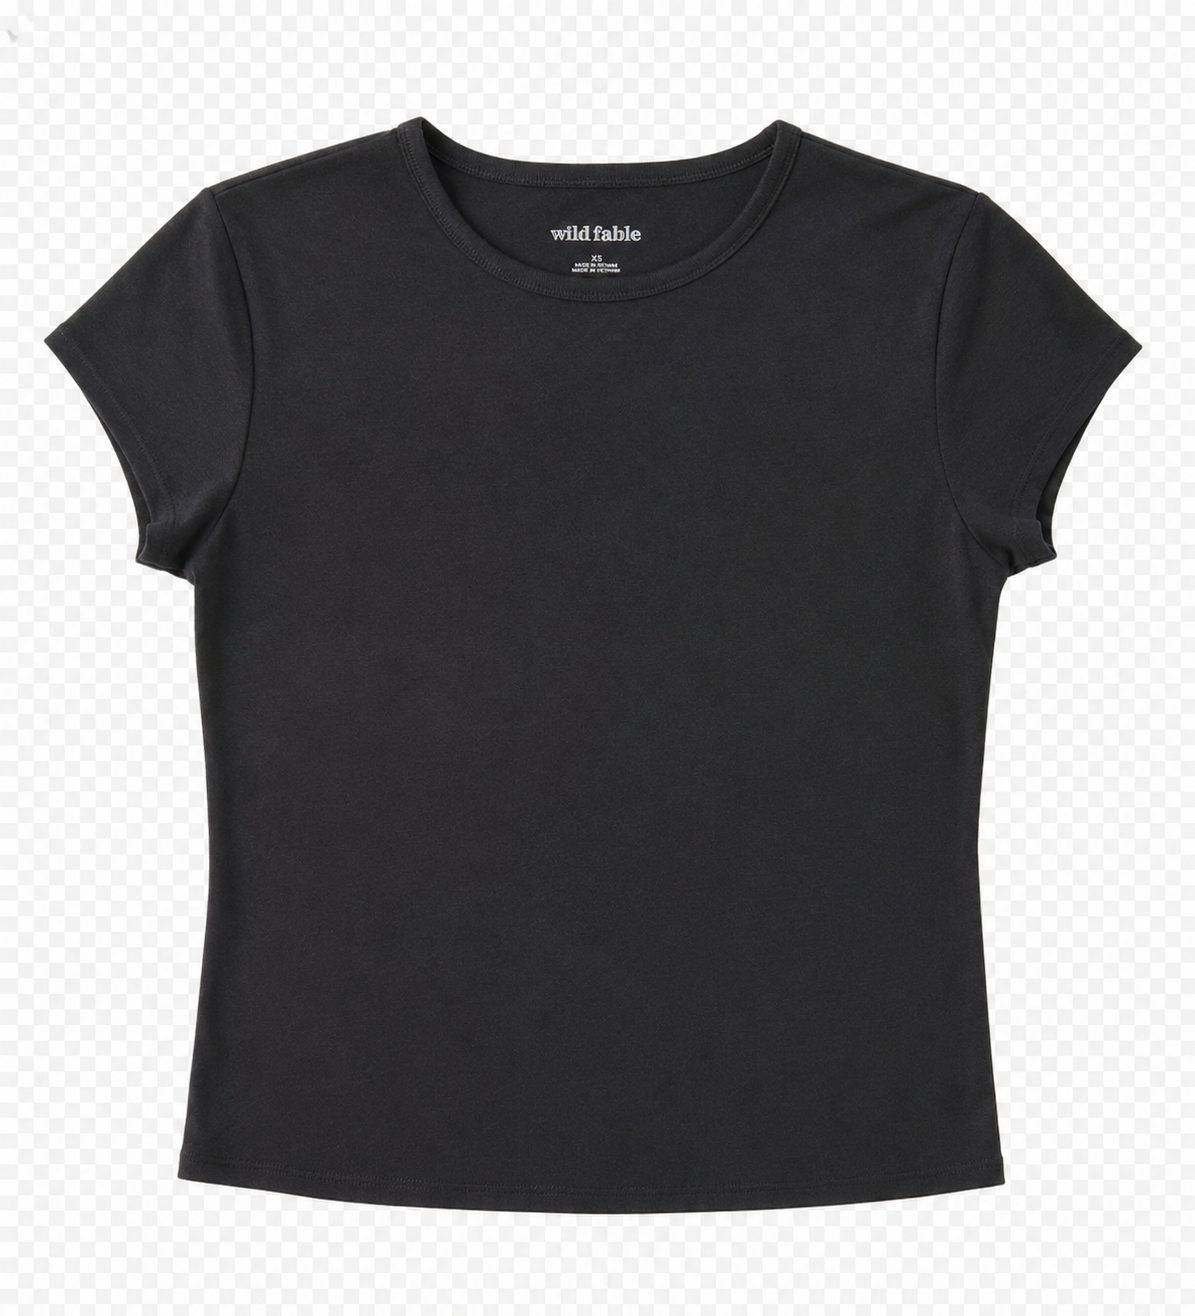
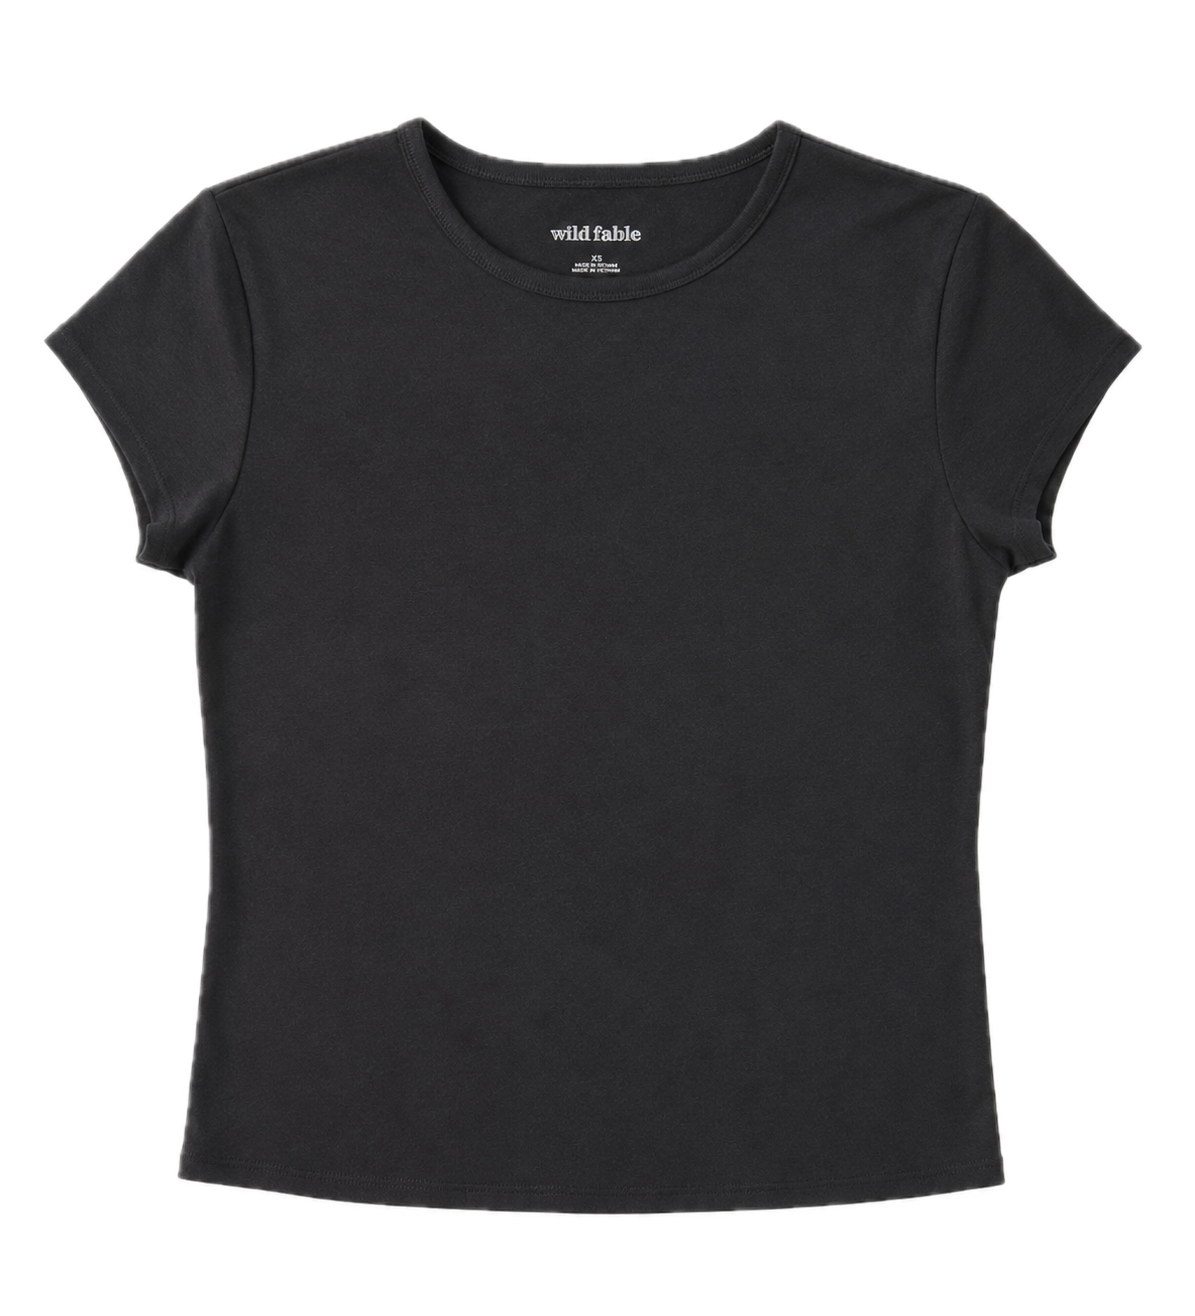
Update navigation and default view to Style Me; increment version for CSS and JS

diff --git a/script.js b/script.js
@@ -164,7 +164,6 @@ const starterWardrobeItems = [
   createStarterItem("starter-leopard-camp-shirt", "Leopard camp shirt", "Short Sleeve Tops", "images/closet/leopard-camp-shirt.png", ["brown", "tan", "black"], ["leopard", "camp collar", "casual", "print"]),
   createStarterItem("starter-sage-cargo-skirt", "Sage cargo mini skirt", "Bottoms", "images/closet/sage-cargo-skirt.png", ["sage", "green"], ["skirt", "mini", "cargo", "casual"]),
   createStarterItem("starter-pink-athletic-shorts", "Pink athletic shorts", "Bottoms", "images/closet/pink-athletic-shorts.png", ["pink", "blush"], ["shorts", "athletic", "activewear"]),
-  createStarterItem("starter-black-tropical-shorts", "Black tropical print shorts", "Bottoms", "images/closet/black-tropical-shorts.png", ["black", "tan"], ["shorts", "tropical", "casual", "summer"]),
   createStarterItem("starter-orange-nike-shorts", "Orange Nike athletic shorts", "Bottoms", "images/closet/orange-nike-shorts.png", ["orange"], ["shorts", "athletic", "activewear", "nike"]),
   createStarterItem("starter-gray-denim-cargo-shorts", "Gray denim cargo shorts", "Bottoms", "images/closet/gray-denim-cargo-shorts.png", ["gray", "charcoal"], ["shorts", "denim", "cargo", "casual"]),
   createStarterItem("starter-navy-polka-dot-shorts", "Navy polka dot lounge shorts", "Bottoms", "images/closet/navy-polka-dot-shorts.png", ["navy", "multicolor"], ["shorts", "lounge", "casual"]),
@@ -179,7 +178,6 @@ const starterWardrobeItems = [
   createStarterItem("starter-navy-pinstripe-flare-jeans", "Navy pinstripe flare jeans", "Bottoms", "images/closet/navy-pinstripe-flare-jeans.png", ["navy", "white"], ["jeans", "flare", "pinstripe", "denim", "casual"]),
   createStarterItem("starter-leopard-print-shorts", "Leopard print shorts", "Bottoms", "images/closet/leopard-print-shorts.png", ["brown", "tan", "black"], ["leopard", "shorts", "casual", "print"]),
   createStarterItem("starter-snakeskin-heeled-sandals", "Snakeskin heeled sandals", "Shoes", "images/closet/snakeskin-heeled-sandals.png", ["tan", "brown", "cream"], ["heels", "sandals", "snakeskin", "dressy"]),
-  createStarterItem("starter-knowt-graphic-tee", "Knowt graphic tee", "Short Sleeve Tops", "images/closet/knowt-graphic-tee.png", ["black", "white"], ["graphic tee", "casual", "streetwear"]),
   createStarterItem("starter-umd-block-graphic-tee", "UMD Block graphic tee", "Short Sleeve Tops", "images/closet/umd-block-graphic-tee.png", ["navy", "multicolor"], ["graphic tee", "casual", "college"]),
   createStarterItem("starter-sage-open-knit-sweater", "Sage open-knit sweater", "Long Sleeve Tops", "images/closet/sage-open-knit-sweater.png", ["sage", "green"], ["sweater", "knit", "crochet", "casual", "layering"]),
   createStarterItem("starter-lime-ruffle-crop-top", "Lime ruffle crop top", "Long Sleeve Tops", "images/closet/lime-ruffle-crop-top.png", ["lime", "neon green", "yellow-green"], ["crop top", "ruffle", "tie-front", "summer", "casual"]),
@@ -187,23 +185,53 @@ const starterWardrobeItems = [
   createStarterItem("starter-retro-print-mini-skirt", "Retro print mini skirt", "Bottoms", "images/closet/retro-print-mini-skirt.png", ["orange", "green", "red", "yellow"], ["skirt", "mini", "retro", "print", "summer"]),
   createStarterItem("starter-fish-print-pants", "Fish print pants", "Bottoms", "images/closet/fish-print-pants.png", ["black", "tan"], ["pants", "print", "casual", "streetwear"]),
   createStarterItem("starter-gray-crop-sweater", "Gray crop sweater", "Long Sleeve Tops", "images/closet/gray-crop-sweater.png", ["gray"], ["sweater", "crop", "cozy", "casual"]),
-  createStarterItem("starter-navy-quarter-zip", "Navy quarter-zip", "Long Sleeve Tops", "images/closet/navy-quarter-zip.png", ["navy", "dark blue"], ["quarter zip", "athletic", "layering"]),
   createStarterItem("starter-mauve-mesh-off-shoulder-top", "Mauve mesh off-shoulder top", "Short Sleeve Tops", "images/closet/mauve-mesh-off-shoulder-top.png", ["mauve", "dusty rose", "pink"], ["off shoulder", "mesh", "ruched", "casual", "summer"]),
   createStarterItem("starter-true-crime-graphic-tee", "True Crime Social Club tee", "Short Sleeve Tops", "images/closet/true-crime-graphic-tee.png", ["black", "red"], ["graphic tee", "casual"]),
   createStarterItem("starter-gray-tailored-trousers", "Gray tailored trousers", "Bottoms", "images/closet/gray-tailored-trousers.png", ["gray", "charcoal"], ["trousers", "wide leg", "tailored", "work", "dressy"]),
   createStarterItem("starter-light-wash-flare-jeans", "Light wash flare jeans", "Bottoms", "images/closet/light-wash-flare-jeans.png", ["light blue", "denim"], ["jeans", "flare", "denim", "casual"]),
-  createStarterItem("starter-navy-lounge-pants", "Navy lounge pants", "PJs", "images/closet/navy-lounge-pants.png", ["navy"], ["pjs", "lounge", "cozy", "casual"]),
-  createStarterItem("starter-gray-athletic-jacket", "Gray athletic jacket", "Long Sleeve Tops", "images/closet/gray-athletic-jacket.png", ["gray"], ["jacket", "zip up", "athletic", "activewear"]),
   createStarterItem("starter-mojave-crop-tee", "Mojave crop tee", "Short Sleeve Tops", "images/closet/mojave-crop-tee.png", ["black", "charcoal"], ["graphic tee", "crop", "casual", "streetwear"]),
   createStarterItem("starter-tiger-print-button-up", "Tiger print button-up", "Long Sleeve Tops", "images/closet/tiger-print-button-up.png", ["black", "cream", "white"], ["tiger print", "button up", "animal print", "casual"]),
   createStarterItem("starter-navy-strapless-mini-dress", "Navy strapless mini dress", "Dresses", "images/closet/navy-strapless-mini-dress.png", ["navy", "dark blue"], ["dress", "mini", "strapless", "bodycon", "date night"]),
-  createStarterItem("starter-brown-stripe-crop-jacket", "Brown stripe crop jacket", "Long Sleeve Tops", "images/closet/brown-stripe-crop-jacket.png", ["brown", "mauve", "burgundy"], ["striped", "crop", "jacket", "casual"]),
   createStarterItem("starter-gray-adidas-track-pants", "Gray Adidas track pants", "Bottoms", "images/closet/gray-adidas-track-pants.png", ["light gray", "white"], ["track pants", "athletic", "adidas", "activewear"]),
   createStarterItem("starter-tan-batwing-sweater", "Tan batwing sweater", "Long Sleeve Tops", "images/closet/tan-batwing-sweater.png", ["tan", "oatmeal", "cream"], ["sweater", "batwing", "oversized", "cozy", "casual"]),
   createStarterItem("starter-black-running-shorts", "Black running shorts", "Bottoms", "images/closet/black-running-shorts.png", ["black"], ["shorts", "athletic", "running", "activewear"]),
-  createStarterItem("starter-taupe-bodysuit", "Taupe bodysuit", "Short Sleeve Tops", "images/closet/taupe-bodysuit.png", ["taupe", "mocha", "brown"], ["bodysuit", "casual", "basics"]),
   createStarterItem("starter-burgundy-babydoll-dress", "Burgundy babydoll dress", "Dresses", "images/closet/burgundy-babydoll-dress.png", ["burgundy", "wine", "red"], ["dress", "babydoll", "slip dress", "summer", "casual"]),
   createStarterItem("starter-denim-utility-shorts", "Denim utility shorts", "Bottoms", "images/closet/denim-utility-shorts.png", ["light blue", "denim"], ["shorts", "denim", "cargo", "utility", "casual"]),
+  createStarterItem("starter-black-satin-pj-shirt", "Black satin PJ shirt", "PJs", "images/closet/black-satin-pj-shirt.png", ["black", "cream"], ["pjs", "satin", "lounge", "cozy"]),
+  createStarterItem("starter-black-satin-pj-shorts", "Black satin PJ shorts", "PJs", "images/closet/black-satin-pj-shorts.png", ["black", "cream"], ["pjs", "satin", "lounge", "cozy"]),
+  createStarterItem("starter-blue-stripe-button-up", "Blue stripe button-up shirt", "Long Sleeve Tops", "images/closet/blue-stripe-button-up.png", ["blue", "white"], ["button up", "striped", "long sleeve", "casual"]),
+  createStarterItem("starter-skull-free-graphic-tee", "Skull Free graphic baby tee", "Short Sleeve Tops", "images/closet/skull-free-graphic-tee.png", ["black", "gray"], ["graphic tee", "short sleeve", "streetwear"]),
+  createStarterItem("starter-orange-paisley-tie-front-top", "Orange paisley tie-front crop top", "Short Sleeve Tops", "images/closet/orange-paisley-tie-front-top.png", ["orange", "rust"], ["crop top", "tie front", "summer", "boho"]),
+  createStarterItem("starter-charcoal-marled-lounge-shorts", "Charcoal marled lounge shorts", "Bottoms", "images/closet/charcoal-marled-lounge-shorts.png", ["charcoal", "gray"], ["shorts", "lounge", "casual", "cozy"]),
+  createStarterItem("starter-charcoal-crewneck-sweater", "Charcoal crewneck sweater", "Long Sleeve Tops", "images/closet/charcoal-crewneck-sweater.png", ["charcoal", "gray"], ["sweater", "crewneck", "cozy", "casual"]),
+  createStarterItem("starter-dark-brown-crop-zip-hoodie", "Dark brown crop zip hoodie", "Long Sleeve Tops", "images/closet/dark-brown-crop-zip-hoodie.png", ["dark brown", "charcoal"], ["hoodie", "zip up", "crop", "cozy", "casual"]),
+  createStarterItem("starter-blue-striped-wrap-skirt", "Blue striped wrap midi skirt", "Bottoms", "images/closet/blue-striped-wrap-skirt.png", ["blue", "white"], ["skirt", "midi", "striped", "wrap", "summer"]),
+  createStarterItem("starter-blue-striped-strapless-top", "Blue striped strapless bandeau top", "Short Sleeve Tops", "images/closet/blue-striped-strapless-top.png", ["blue", "white"], ["strapless", "bandeau", "summer", "casual"]),
+  createStarterItem("starter-baby-blue-flare-pants", "Baby blue flare lounge pants", "Bottoms", "images/closet/baby-blue-flare-pants.png", ["baby blue", "light blue"], ["wide leg", "flare", "lounge", "casual"]),
+  createStarterItem("starter-black-diamond-midi-dress", "Black diamond print midi dress", "Dresses", "images/closet/black-diamond-midi-dress.png", ["black", "tan", "orange"], ["dress", "midi", "spaghetti straps", "tiered", "casual"]),
+  createStarterItem("starter-white-open-knit-crop-sweater", "White open-knit crop sweater", "Long Sleeve Tops", "images/closet/white-open-knit-crop-sweater.png", ["white", "cream"], ["sweater", "knit", "crochet", "crop", "layering", "summer"]),
+  createStarterItem("starter-cream-lace-ruffle-skirt", "Cream lace ruffle mini skirt", "Bottoms", "images/closet/cream-lace-ruffle-skirt.png", ["cream", "ivory"], ["skirt", "mini", "lace", "ruffle", "dressy"]),
+  createStarterItem("starter-black-ribbed-long-sleeve", "Black ribbed long sleeve top", "Long Sleeve Tops", "images/closet/black-ribbed-long-sleeve.png", ["black"], ["long sleeve", "ribbed", "fitted", "basic", "casual"]),
+  createStarterItem("starter-gray-boxy-tee", "Gray boxy tee", "Short Sleeve Tops", "images/closet/gray-boxy-tee.png", ["gray", "heather gray"], ["tee", "short sleeve", "basic", "casual"]),
+  createStarterItem("starter-hot-pink-shoulder-bag", "Hot pink shoulder bag", "Accessories", "images/closet/hot-pink-shoulder-bag.png", ["hot pink", "fuchsia"], ["bag", "shoulder bag", "going out"]),
+  createStarterItem("starter-navy-track-jacket", "Navy New York track jacket", "Long Sleeve Tops", "images/closet/navy-track-jacket.png", ["navy", "white"], ["jacket", "track jacket", "zip up", "athletic", "streetwear"]),
+  createStarterItem("starter-black-eyelet-cami-top", "Black eyelet corset cami top", "Short Sleeve Tops", "images/closet/black-eyelet-cami-top.png", ["black"], ["cami", "corset", "eyelet", "summer", "going out"]),
+  createStarterItem("starter-olive-leggings", "Olive high-waist leggings", "Bottoms", "images/closet/olive-leggings.png", ["olive", "green"], ["leggings", "high waist", "athletic", "activewear"]),
+  createStarterItem("starter-black-athletic-leggings", "Black high-waist athletic leggings", "Bottoms", "images/closet/black-athletic-leggings.png", ["black"], ["leggings", "high waist", "athletic", "activewear"]),
+  createStarterItem("starter-mint-butterfly-bag", "Mint butterfly print shoulder bag", "Accessories", "images/closet/mint-butterfly-bag.png", ["mint", "light blue"], ["bag", "shoulder bag", "casual"]),
+  createStarterItem("starter-black-shoulder-bag", "Black mini shoulder bag", "Accessories", "images/closet/black-shoulder-bag.png", ["black"], ["bag", "shoulder bag", "casual", "going out"]),
+  createStarterItem("starter-black-bow-print-sleep-dress", "Black bow print sleep dress", "PJs", "images/closet/black-bow-print-sleep-dress.png", ["black", "pink", "green"], ["pjs", "sleep dress", "lounge", "cozy"]),
+  createStarterItem("starter-pink-plaid-sleep-dress", "Pink plaid Snooze sleep dress", "PJs", "images/closet/pink-plaid-sleep-dress.png", ["pink", "burgundy"], ["pjs", "sleep dress", "plaid", "lounge", "cozy"]),
+  createStarterItem("starter-born-to-live-graphic-tee", "Born to Live skull graphic tee", "Short Sleeve Tops", "images/closet/born-to-live-graphic-tee.png", ["black", "charcoal"], ["graphic tee", "short sleeve", "casual", "streetwear"]),
+  createStarterItem("starter-black-cat-eye-sunglasses", "Black cat-eye sunglasses", "Accessories", "images/closet/black-cat-eye-sunglasses.png", ["black"], ["sunglasses", "accessories"]),
+  createStarterItem("starter-gold-studded-hoops", "Gold studded hoop earrings", "Accessories", "images/closet/gold-studded-hoops.png", ["gold"], ["earrings", "hoops", "jewelry", "dressy"]),
+  createStarterItem("starter-tan-crossover-sandals", "Tan crossover slide sandals", "Shoes", "images/closet/tan-crossover-sandals.png", ["tan", "brown"], ["sandals", "slides", "casual", "summer"]),
+  createStarterItem("starter-olive-cami-tank", "Olive cami tank", "Short Sleeve Tops", "images/closet/olive-cami-tank.png", ["olive", "green"], ["tank", "cami", "sleeveless", "casual", "summer"]),
+  createStarterItem("starter-tortoise-cat-eye-sunglasses", "Tortoise cat-eye sunglasses", "Accessories", "images/closet/tortoise-cat-eye-sunglasses.png", ["brown", "tortoise"], ["sunglasses", "accessories"]),
+  createStarterItem("starter-gold-buckle-bracelet", "Gold buckle bangle bracelet", "Accessories", "images/closet/gold-buckle-bracelet.png", ["gold"], ["bracelet", "jewelry", "dressy"]),
+  createStarterItem("starter-gold-snake-chain-bracelet", "Gold snake chain bracelet", "Accessories", "images/closet/gold-snake-chain-bracelet.png", ["gold"], ["bracelet", "jewelry", "dressy", "layering"]),
+  createStarterItem("starter-olay-football-jersey", "Olay #28 football jersey", "Short Sleeve Tops", "images/closet/olay-football-jersey.png", ["white", "black", "gold"], ["jersey", "graphic", "short sleeve", "casual", "streetwear"]),
+  createStarterItem("starter-moon-graphic-tee", "Moon graphic tee", "Short Sleeve Tops", "images/closet/moon-graphic-tee.png", ["black", "gold"], ["graphic tee", "short sleeve", "casual"]),
 ];
 
 const topCategories = ["Tops", "Short Sleeve Tops", "Long Sleeve Tops"];

diff --git a/index.html b/index.html
@@ -14,8 +14,8 @@
       href="https://fonts.googleapis.com/css2?family=DM+Sans:wght@400;500;600&family=Playfair+Display:ital,wght@0,600;1,500&display=swap"
       rel="stylesheet"
     />
-    <link rel="stylesheet" href="style.css?v=1.0.2" />
-    <script src="script.js?v=1.0.2" defer></script>
+    <link rel="stylesheet" href="style.css?v=1.0.3" />
+    <script src="script.js?v=1.0.3" defer></script>
   </head>
   <body>
     <div class="app-shell">